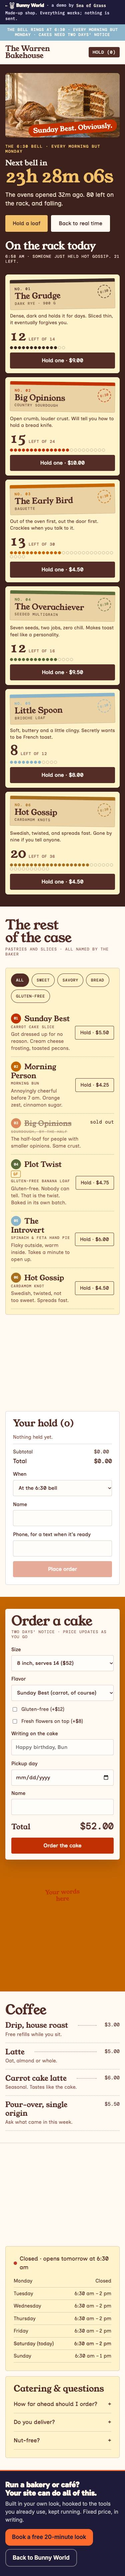
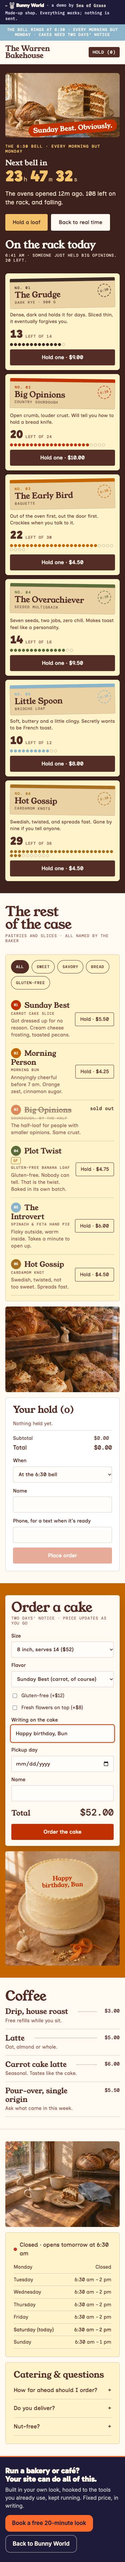
Warren Bakehouse bell: lining clock figures, small units, photo slots
- The countdown is set in Gabarito with lining, tabular figures, so the
  digits sit on the line and don't jitter as they tick. The h/m/s units
  are 40% size, lighter and baseline-aligned, so the numbers lead. Screen
  readers hear "7 hours 49 minutes 32 seconds".
- The "left" counts use the same face; list prices and the cake total
  use lining, tabular mono figures.
- The cake, case and visit photos get a warm slot colour, so a lazy
  photo that hasn't loaded yet never reads as an empty gap. (The gap and
  the bare cake in the earlier screenshots were lazy photos the capture
  never scrolled to; re-shot with a scroll-through.)

Changed region(s): [[0.0, 0.0, 1.0, 0.9993], [0.5867, 0.4372, 0.616, 0.4684]]

diff --git a/preview/work/bunny-world/warren-bakehouse/index.html b/preview/work/bunny-world/warren-bakehouse/index.html
@@ -16,7 +16,7 @@ window.dataLayer=window.dataLayer||[];function gtag(){dataLayer.push(arguments);
 <link rel="preconnect" href="https://fonts.googleapis.com"><link rel="preconnect" href="https://fonts.gstatic.com" crossorigin>
 <link rel="stylesheet" href="https://fonts.googleapis.com/css2?family=Young+Serif&family=Inclusive+Sans:wght@400;500&family=DM+Mono:wght@400;500&family=IBM+Plex+Mono:wght@500&family=Gabarito:wght@900&family=Inter:wght@400;600&display=swap">
 <link rel="stylesheet" href="../shop.css?v=10">
-<link rel="stylesheet" href="style.css?v=17">
+<link rel="stylesheet" href="style.css?v=19">
 </head>
 <body>
 <div class="demo"><span><a class="bw-wm" href="../" aria-label="Back to Bunny World">&larr; <img src="../brand/mark-small-cream.svg?v=2" alt="" width="13" height="20"><span>Bunny World</span></a> &middot; a demo by <a href="/">Sea of Grass</a></span><span>Made-up shop. Everything works; nothing is sent.</span></div>
@@ -53,7 +53,7 @@ window.dataLayer=window.dataLayer||[];function gtag(){dataLayer.push(arguments);
 <div class="card"><h3>Catering &amp; questions</h3><details><summary>How far ahead should I order?</summary><p>Pastry boxes: one day. Cakes: two days. Weddings: a month out.</p></details><details><summary>Do you deliver?</summary><p>Within 5 miles for orders over $60.</p></details><details><summary>Nut-free?</summary><p>We bake with nuts, so we can not promise nut-free. Gluten-free is baked separately.</p></details></div></section>
 <script>(()=>{const d=document.getElementById('cake-day');if(!d)return;const t=new Date();t.setDate(t.getDate()+2);d.min=t.toISOString().slice(0,10);})();</script>
 </main>
-<script src="bell.js?v=1" defer></script>
+<script src="bell.js?v=2" defer></script>
 <section class="want"><div><h2>Run a bakery or café? Your site can do all of this.</h2><p>Built in your own look, hooked to the tools you already use, kept running. Fixed price, in writing.</p></div><div style="display:flex;flex-wrap:wrap;gap:10px"><a href="https://cal.com/sea-of-grass" target="_blank" rel="noopener">Book a free 20-minute look</a><a class="back" href="../">Back to Bunny World</a></div></section>
 <script src="../bw.js?v=8" defer></script>
 </body>

diff --git a/preview/work/bunny-world/warren-bakehouse/bell.js b/preview/work/bunny-world/warren-bakehouse/bell.js
@@ -17,6 +17,9 @@ function now(){if(!fast)return realNow();const s=fast.from+(Date.now()-fast.t0)/
 /* seconds until the next bell, from (day, sec) */
 function untilNext(n){for(let k=0;k<8;k++){const d=(n.day+k)%7;if(!(d in CLOSE))continue;const at=k*86400+BELL;if(at>n.sec)return at-n.sec;}return 0;}
 const hms=t=>{t=Math.max(0,Math.ceil(t));const h=Math.floor(t/3600),m=Math.floor(t%3600/60),s=t%60;return`${String(h).padStart(2,'0')}h ${String(m).padStart(2,'0')}m ${String(s).padStart(2,'0')}s`;};
+/* the clock: numbers lead, the h/m/s units sit small beside them; aria-label keeps it readable as words */
+const clockHTML=t=>{t=Math.max(0,Math.ceil(t));const p=[Math.floor(t/3600),Math.floor(t%3600/60),t%60].map(v=>String(v).padStart(2,'0'));
+  return`<b>${p[0]}</b><i>h</i><b>${p[1]}</b><i>m</i><b>${p[2]}</b><i>s</i>`;};
 const hm=t=>{t=Math.max(0,Math.round(t/60));const h=Math.floor(t/60),m=t%60;return h?`${h}h ${m}m`:`${m}m`;};
 
 const clock=$('[data-clock]'),state=$('[data-bell-state]'),sub=$('[data-bell-sub]'),tick=$('[data-ticker]'),fastB=$('[data-fast]');
@@ -33,7 +36,7 @@ function feed(msg){const t=Date.now();if(t-lastFeed<2500)return;lastFeed=t;tick.
 const clockTxt=n=>{let h=Math.floor(n.sec/3600),m=Math.floor(n.sec%3600/60);const ap=h>=12?'pm':'am';h=h%12||12;return`${h}:${String(m).padStart(2,'0')} ${ap}`;};
 
 function draw(){const n=now(),ph=phase(n),next=untilNext(n);
-  clock.textContent=hms(next);
+  clock.innerHTML=clockHTML(next);clock.setAttribute('aria-label',hms(next).replace(/(\d+)h (\d+)m (\d+)s/,'$1 hours $2 minutes $3 seconds'));
   bell.dataset.phase=ph;
   const sinceBell=n.sec-BELL;
   if(ph==='before'){state.textContent='The bell rings in';sub.textContent=`Six named loaves are proofing. They come out at 6:30 sharp; hold one now and it waits for you.`;}

diff --git a/preview/work/bunny-world/warren-bakehouse/style.css b/preview/work/bunny-world/warren-bakehouse/style.css
@@ -105,3 +105,18 @@ h2{font-size:clamp(40px,5.4vw,78px);line-height:.95;letter-spacing:-.02em}
 .lbl::after{content:"6:30";display:grid;place-items:center;width:40px;height:40px;top:9px;font:500 10px/1 var(--mf);letter-spacing:.04em;color:var(--ink);opacity:.8;transform:rotate(-14deg)}
 @media (max-width:560px){.clock{font-size:clamp(44px,14vw,70px)}.loaf{padding:14px}.loaf .say{font-size:14.5px}}
 .loaf.sold .lbl::after{opacity:0}
+/* clock and counts in lining, tabular figures (DM Mono): digits sit on the line and don't jitter as they tick */
+.clock{font-family:var(--mf);font-weight:500;font-variant-numeric:lining-nums tabular-nums;letter-spacing:-.04em;font-size:clamp(46px,6.4vw,104px);line-height:1;display:flex;align-items:baseline;gap:0}
+.clock b{font-weight:500}
+.clock i{font-style:normal;font-size:.4em;font-weight:400;letter-spacing:0;color:#c9a87a;margin:0 .55em 0 .12em}
+.clock i:last-child{margin-right:0}
+.left b{font-family:var(--mf);font-weight:500;font-size:34px;letter-spacing:-.03em;font-variant-numeric:lining-nums tabular-nums}
+.hold1,.list .price,.list .btn,.total b,.price{font-variant-numeric:lining-nums tabular-nums}
+.list .price,.total b{font-family:var(--mf);font-weight:500}
+/* a warm slot behind every lazy photo, so a slow load never shows as a hole */
+.cake-pre picture,.visit-photo picture,.case-photo picture{display:block;background:#ead2a4;border-radius:6px}
+@media (max-width:560px){.clock{font-size:clamp(40px,12.5vw,64px)}}
+/* Gabarito: sturdy, warm, lining tabular figures with a plain zero */
+.clock{font-family:Gabarito,var(--bf);letter-spacing:-.02em}.clock b{font-weight:900}
+.clock i{font-family:var(--mf);font-weight:500;margin:0 .5em 0 .14em}
+.left b{font-family:Gabarito,var(--bf);font-weight:900;letter-spacing:-.01em}
